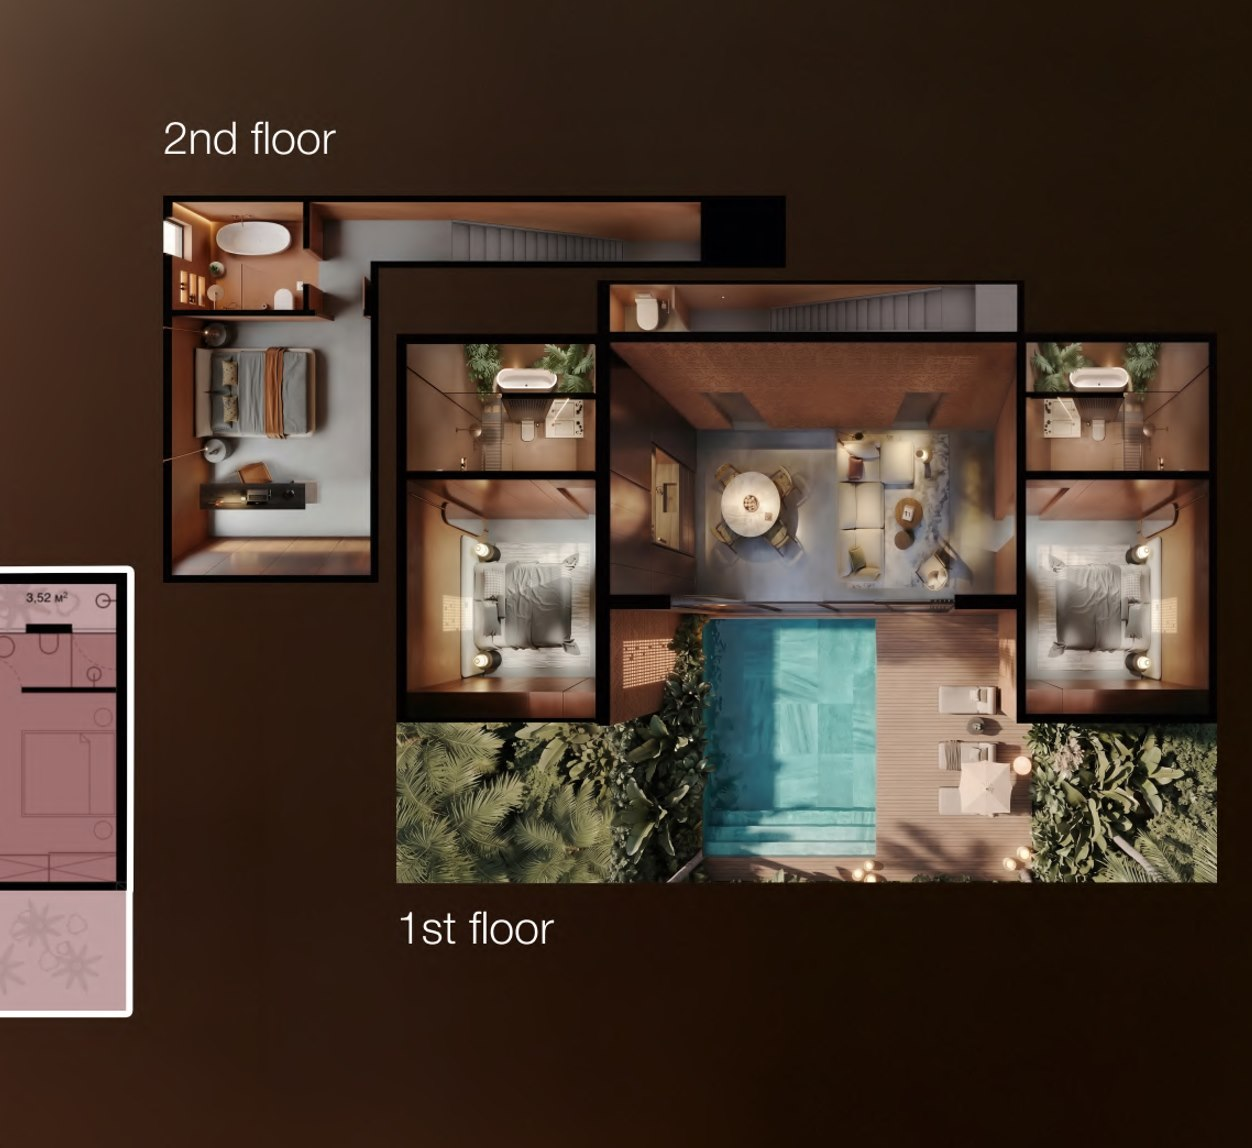
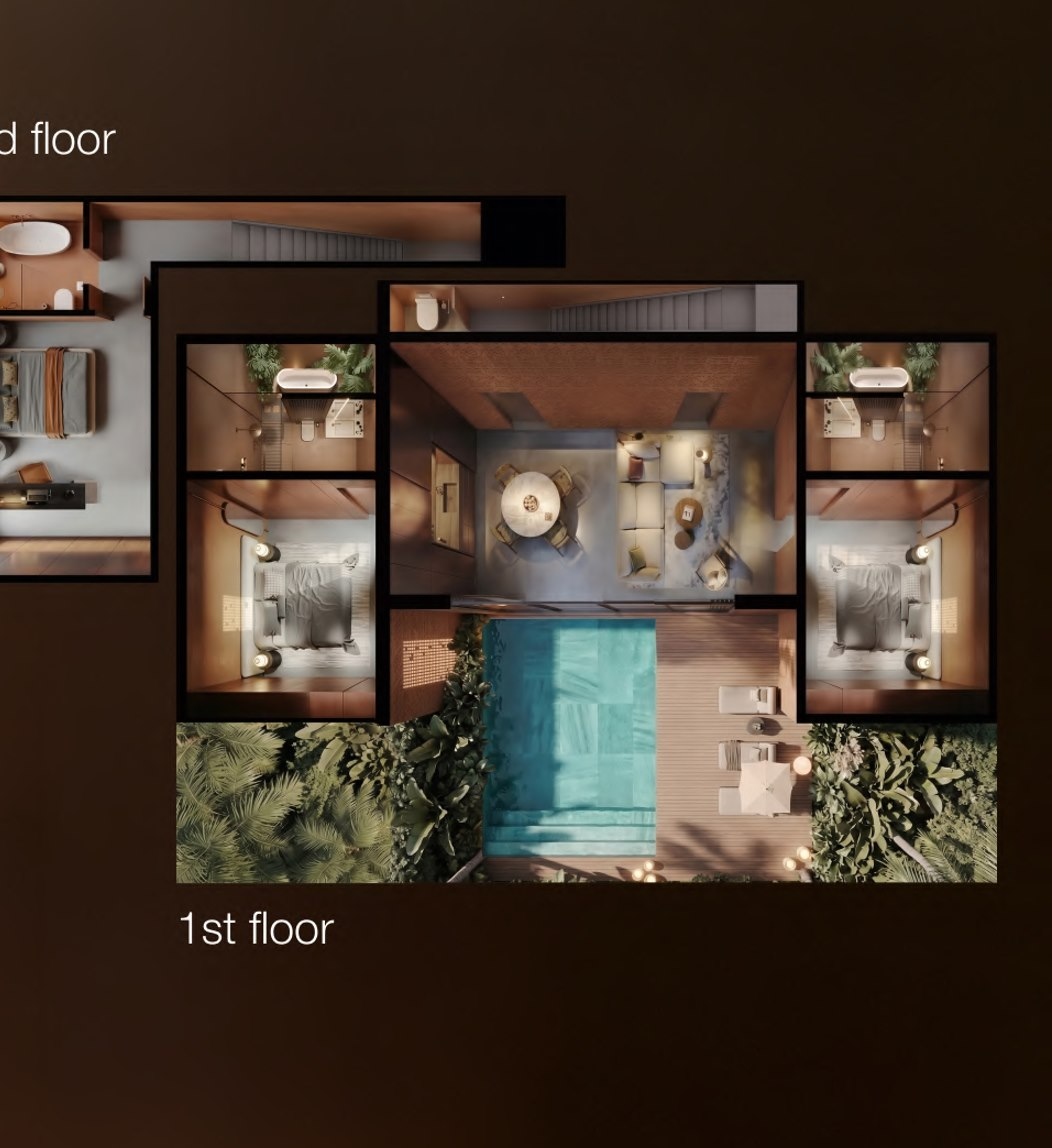
Планировки: светлые панели под план и фото

diff --git a/css/styles.css b/css/styles.css
@@ -498,29 +498,23 @@ body.menu-open{overflow:hidden}
 .plans-tab:not(.is-active):hover{border-color:var(--clay); color:var(--clay)}
 .plans-tab.is-active{background:var(--ink); border-color:var(--ink); color:var(--white)}
 .plans-tab:active{transform:scale(.96)}
+/* по правке Босса: тёмным остаётся только текстовый столбец, план и фото
+   виллы получили каждый свою СВЕТЛУЮ панель — больше не нужно "вписывать"
+   план в тёмный фон блендами, он просто лежит на своём естественном белом
+   листе, как в референсах luxury-девелоперов (чистый чертёж на светлом) */
 .plans-panel{
-  display:grid; grid-template-columns:1.4fr 1fr; gap:0; border-radius:var(--r-lg); overflow:hidden;
-  background:var(--ink); box-shadow:var(--shadow-card-dark);
+  display:grid; grid-template-columns:1.05fr 1fr .95fr; gap:2px; border-radius:var(--r-lg); overflow:hidden;
+  background:var(--line); box-shadow:var(--shadow-card-dark);
 }
 /* реальные планировки (скан презентации) — разное соотношение сторон у
-   каждого юнита, contain на тёмном фоне панели вместо cover, чтобы план не
-   обрезался и не растягивался */
-.plans-viewer{position:relative; aspect-ratio:600/478; background:var(--ink); display:flex; align-items:center; justify-content:center; padding:24px}
-/* по правке Босса: планы у каждого юнита были в своём цвете (бежевый/жёлтый/
-   зелёный/розовый — со скана презентации), разнобой смотрелся неряшливо.
-   Затем чистый grayscale без блендинга: план остаётся белым прямоугольником
-   на тёмной панели — стилистически инородно (правка Босса: "планировки и
-   фон разнятся по стилю"). Решение: invert переворачивает скан в тёмный фон
-   + белые линии (вид чертежа), mix-blend-mode:screen "растворяет" именно
-   тёмный фон плана в var(--ink) позади (чёрное не даёт вклада при screen),
-   а белые линии остаются яркими и читаемыми — в отличие от multiply на
-   тёмной подложке (тот крушил линии в чёрный, см. историю правок) */
-.plans-viewer img{max-width:100%; max-height:100%; width:auto; height:auto; object-fit:contain; filter:grayscale(1) invert(1) brightness(1.1); mix-blend-mode:screen}
-.plans-info{padding:50px; display:flex; flex-direction:column; gap:var(--sp-lg)}
-/* реальный интерьерный рендер по типу виллы (из презентации) — карточка
-   между статами и кнопкой, тот же радиус/пропорции что у карточек сайта */
-.plans-photo{border-radius:var(--r-xs); overflow:hidden; aspect-ratio:16/10}
-.plans-photo img{width:100%; height:100%; object-fit:cover; object-position:50% 15%}
+   каждого юнита, contain на светлом фоне, план не обрезается и не тянется */
+.plans-viewer{position:relative; aspect-ratio:600/478; background:var(--stone); display:flex; align-items:center; justify-content:center; padding:24px}
+.plans-viewer img{max-width:100%; max-height:100%; width:auto; height:auto; object-fit:contain; filter:grayscale(1)}
+/* реальный интерьерный рендер по типу виллы (из презентации) — своя светлая
+   панель рядом с планом, а не мелкая карточка внутри тёмной колонки */
+.plans-photo-main{position:relative; height:100%; background:var(--stone); overflow:hidden}
+.plans-photo-main img{width:100%; height:100%; object-fit:cover; object-position:50% 20%}
+.plans-info{padding:50px; display:flex; flex-direction:column; gap:var(--sp-lg); background:var(--ink)}
 .plans-info h3{font-size:28px; color:var(--white); text-decoration:underline; text-underline-offset:6px; text-decoration-color:rgba(156,79,32,.5)}
 /* иконки площади/вместимости/для кого — по контексту (правка Босса) */
 .plans-stat{display:flex; align-items:center; gap:14px; border-top:1px solid rgba(255,255,255,.15); padding-top:14px}
@@ -709,7 +703,8 @@ html.js .reveal.in{opacity:1; transform:none}
 /* ==================== ADAPTIVE ==================== */
 @media (max-width:1080px){
   .priv-grid, .stat-grid{grid-template-columns:1fr}
-  .plans-panel{grid-template-columns:1fr}
+  .plans-panel{grid-template-columns:1fr 1fr}
+  .plans-info{grid-column:1 / -1}
 }
 @media (max-width:860px){
   .container{padding:0 20px}
@@ -821,8 +816,12 @@ html.js .reveal.in{opacity:1; transform:none}
   .plans-tabs{flex-wrap:nowrap; overflow-x:auto; scroll-snap-type:x mandatory; -webkit-overflow-scrolling:touch; gap:8px; margin:var(--sp-md) 0}
   .plans-tabs::-webkit-scrollbar{display:none}
   .plans-tab{flex:0 0 auto; scroll-snap-align:start; padding:10px 18px; font-size:14px}
+  /* на узком мобильном 2 колонки (план+фото) сжимались до нечитаемых ~170px —
+     план и фото ставятся в один столбец, info остаётся ниже во всю ширину */
+  .plans-panel{grid-template-columns:1fr}
   /* панель планировки была слишком высокой — не помещалась на экран целиком */
   .plans-viewer{aspect-ratio:4/3}
+  .plans-photo-main{aspect-ratio:4/3}
   .plans-info{padding:22px; gap:var(--sp-sm)}
   .plans-info h3{font-size:20px}
   .plans-stat{padding-top:10px; gap:10px}

diff --git a/index.html b/index.html
@@ -236,6 +236,9 @@
       <div class="plans-viewer">
         <img id="planImg" src="assets/plan-studio.png" alt="Планировка Studio" loading="lazy">
       </div>
+      <div class="plans-photo-main">
+        <img id="planPhoto" src="assets/villa-studio.jpg" alt="Интерьер виллы Studio" loading="lazy">
+      </div>
       <div class="plans-info">
         <h3 id="planName">Studio</h3>
         <div class="plans-stat">
@@ -250,10 +253,7 @@
           <svg class="plans-stat-ic" viewBox="0 0 24 24"><circle cx="12" cy="7" r="4" fill="currentColor"/><path fill="currentColor" d="M4 22c0-4.42 3.58-8 8-8s8 3.58 8 8H4z"/></svg>
           <div><div class="k" data-i18n="plans.who_label">Для кого</div><div class="v" id="planWho">Один, пары</div></div>
         </div>
-        <div class="plans-photo">
-          <img id="planPhoto" src="assets/villa-studio.jpg" alt="Интерьер виллы Studio" loading="lazy">
-        </div>
-        <a class="btn btn-glass" href="#contacts" data-i18n="plans.cta">Приобрести</a>
+                <a class="btn btn-glass" href="#contacts" data-i18n="plans.cta">Приобрести</a>
       </div>
     </div>
   </div>
